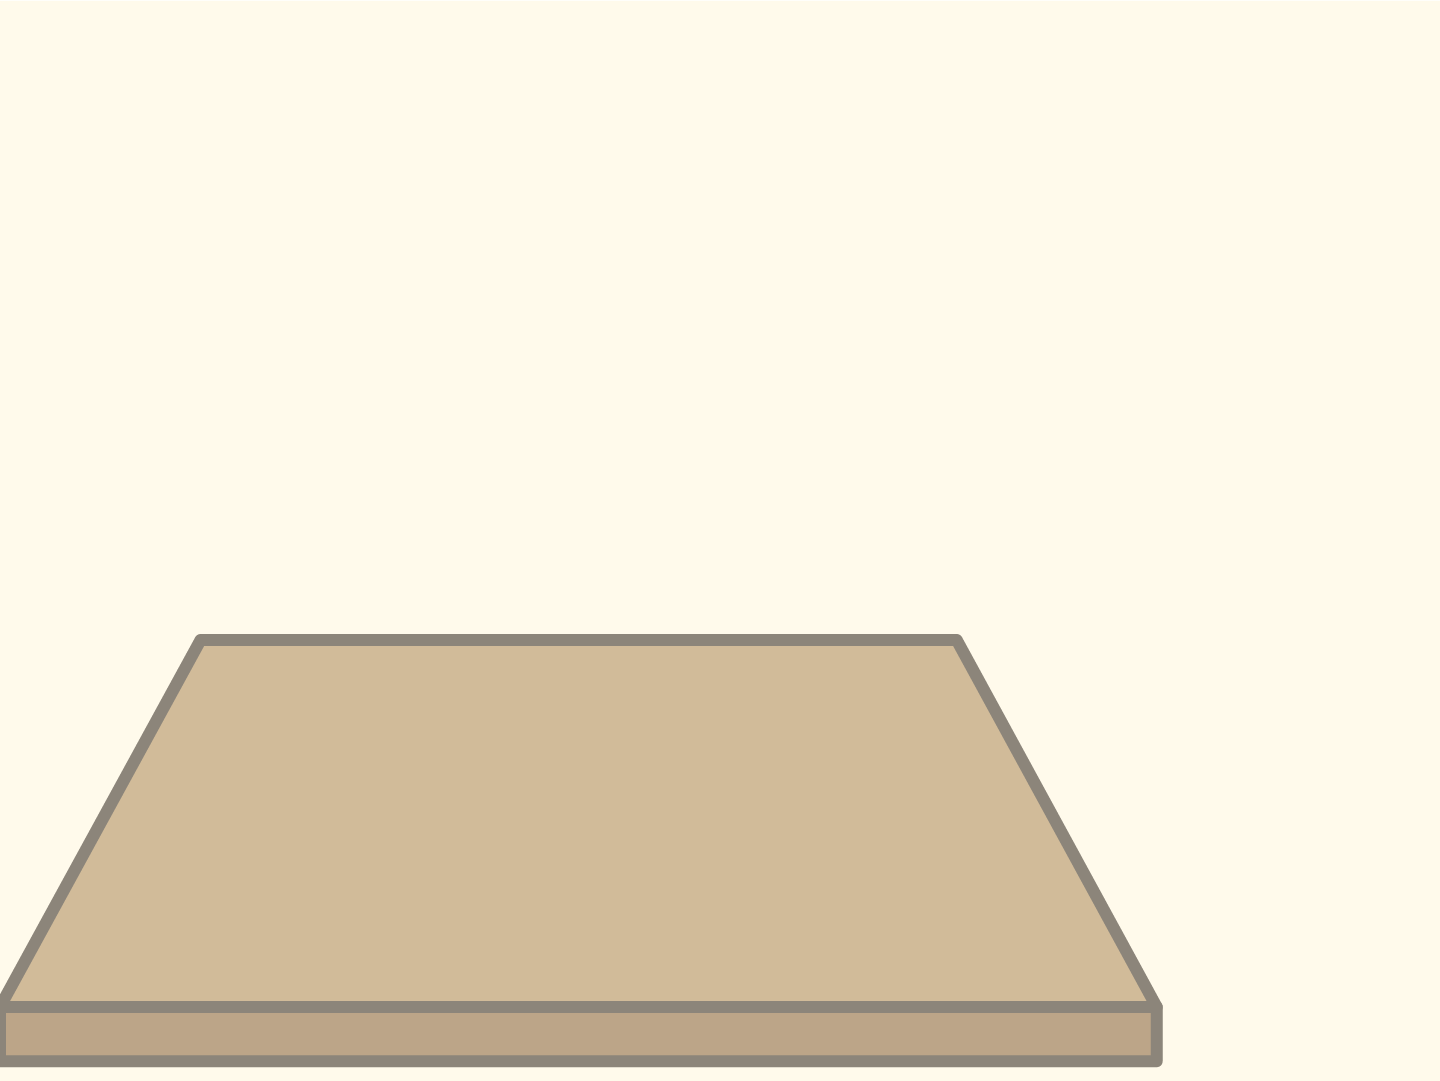
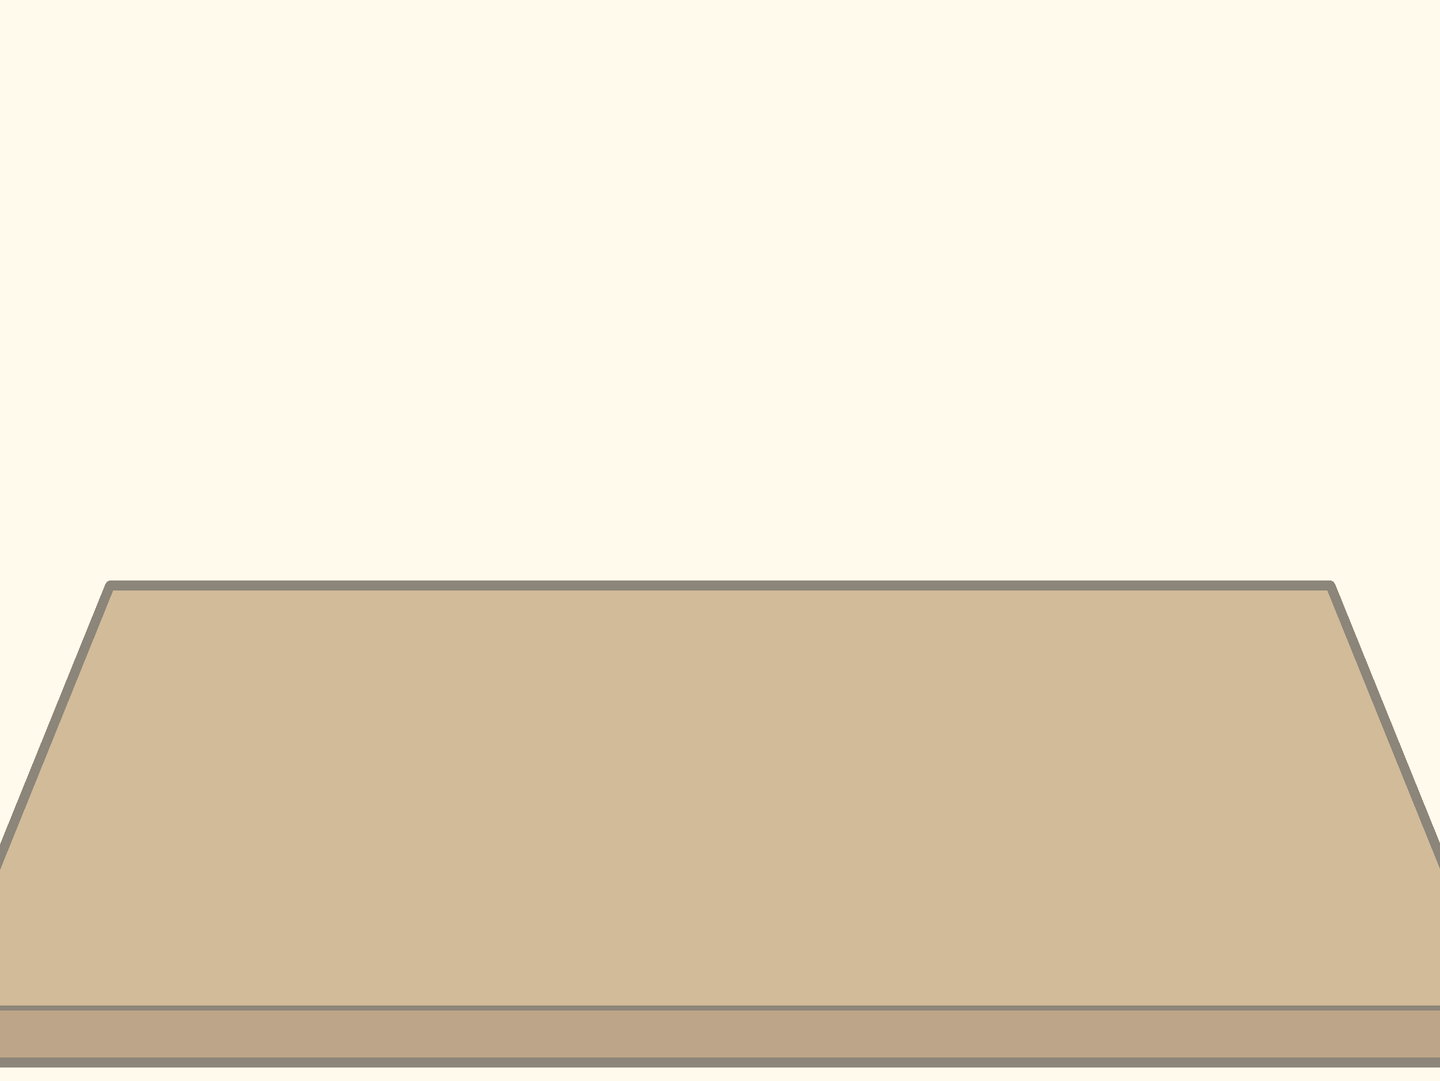
棚の部屋化と部屋を行き来する矢印を追加、飼育部屋の机と配置を調整

Changed region(s): [[0.0, 0.519, 1.0, 1.0]]

diff --git a/src/components/roadmap/room-arrows.tsx b/src/components/roadmap/room-arrows.tsx
@@ -1,0 +1,164 @@
+"use client";
+
+import { useCallback, useEffect, useRef, useState } from "react";
+import { usePathname, useRouter } from "next/navigation";
+import { ChevronLeft, ChevronRight } from "lucide-react";
+import { getRoomNeighbors, ROOMS, roomFromPathname, type RoomKey } from "@/lib/roadmap-rooms";
+
+const USES_KEY = "roomArrowUses";
+// 最初の数回だけ、タップのあとに矢印が大きくなってから移動する(「これで部屋が動く」と分かってもらう)。
+const DEMO_COUNT = 3;
+const DEMO_DELAY_MS = 1800;
+const QUICK_DELAY_MS = 250;
+const SWIPE_MIN_PX = 70;
+
+function readUses(): number {
+  try {
+    return Number(window.localStorage.getItem(USES_KEY)) || 0;
+  } catch {
+    return 0;
+  }
+}
+
+function writeUses(n: number) {
+  try {
+    window.localStorage.setItem(USES_KEY, String(n));
+  } catch {
+    // 覚えられなくても動作に影響しない
+  }
+}
+
+function insideFixedElement(el: Element | null): boolean {
+  let node: Element | null = el;
+  while (node && node !== document.body) {
+    if (getComputedStyle(node).position === "fixed") return true;
+    node = node.parentElement;
+  }
+  return false;
+}
+
+// 部屋(飼育部屋・棚の部屋・リスニングの部屋)を行き来する、画面の左右の矢印。
+// 呼吸するように動いて気づかせる。PCはマウスを乗せると大きくなって行き先が出る。
+// スマホは最初の数回だけ、タップのあとに同じ動きを見せてから移動し、慣れたらすぐ移動する。スワイプでも移動できる。
+export function RoomArrows({ listeningUnlocked = false }: { listeningUnlocked?: boolean }) {
+  const pathname = usePathname();
+  const router = useRouter();
+  const current = roomFromPathname(pathname);
+  const [goingSide, setGoingSide] = useState<"left" | "right" | null>(null);
+  const timerRef = useRef<ReturnType<typeof setTimeout> | null>(null);
+  const neighbors = current ? getRoomNeighbors(current, listeningUnlocked) : { left: null, right: null };
+  const neighborsRef = useRef(neighbors);
+  neighborsRef.current = neighbors;
+  const busyRef = useRef(false);
+
+  useEffect(() => {
+    // 部屋が変わったら(移動し終えたら)、動きの状態を戻す
+    setGoingSide(null);
+    busyRef.current = false;
+  }, [pathname]);
+
+  useEffect(
+    () => () => {
+      if (timerRef.current) clearTimeout(timerRef.current);
+    },
+    []
+  );
+
+  const go = useCallback(
+    (side: "left" | "right", target: RoomKey, instant: boolean) => {
+      if (busyRef.current) return;
+      busyRef.current = true;
+      const href = ROOMS[target].href;
+      router.prefetch(href);
+      const uses = readUses();
+      writeUses(uses + 1);
+      const touch = window.matchMedia("(hover: none)").matches;
+      const reduced = window.matchMedia("(prefers-reduced-motion: reduce)").matches;
+      let delay = 0;
+      if (!instant && touch && !reduced) delay = uses < DEMO_COUNT ? DEMO_DELAY_MS : QUICK_DELAY_MS;
+      if (delay === 0) {
+        router.push(href);
+        return;
+      }
+      setGoingSide(side);
+      timerRef.current = setTimeout(() => router.push(href), delay);
+    },
+    [router]
+  );
+
+  // スワイプ(指を左へ動かすと右の部屋、右へ動かすと左の部屋)。ポップアップや、横にスクロール・ドラッグする場所は除く。
+  useEffect(() => {
+    if (!current) return;
+    let startX = 0;
+    let startY = 0;
+    let tracking = false;
+    const onStart = (e: TouchEvent) => {
+      const target = e.target as Element | null;
+      tracking =
+        e.touches.length === 1 &&
+        !target?.closest('[data-no-room-swipe], input, textarea, select, [role="dialog"]') &&
+        !insideFixedElement(target);
+      if (tracking) {
+        startX = e.touches[0].clientX;
+        startY = e.touches[0].clientY;
+      }
+    };
+    const onEnd = (e: TouchEvent) => {
+      if (!tracking) return;
+      tracking = false;
+      const dx = e.changedTouches[0].clientX - startX;
+      const dy = e.changedTouches[0].clientY - startY;
+      if (Math.abs(dx) < SWIPE_MIN_PX || Math.abs(dx) < Math.abs(dy) * 2) return;
+      const { left, right } = neighborsRef.current;
+      if (dx < 0 && right) go("right", right, true);
+      if (dx > 0 && left) go("left", left, true);
+    };
+    window.addEventListener("touchstart", onStart, { passive: true });
+    window.addEventListener("touchend", onEnd, { passive: true });
+    return () => {
+      window.removeEventListener("touchstart", onStart);
+      window.removeEventListener("touchend", onEnd);
+    };
+  }, [current, go]);
+
+  if (!current) return null;
+
+  const renderArrow = (side: "left" | "right", target: RoomKey | null) => {
+    if (!target) return null;
+    const active = goingSide === side;
+    const Icon = side === "left" ? ChevronLeft : ChevronRight;
+    // PCでは、読む幅(max-w-3xl)のすぐ外側に置く。狭い画面では画面の端。
+    const edge = "max(6px, calc(50vw - 440px))";
+    return (
+      <div
+        className="pointer-events-none fixed top-1/2 z-30 -translate-y-1/2"
+        style={side === "left" ? { left: edge } : { right: edge }}
+      >
+        <button
+          type="button"
+          aria-label={ROOMS[target].toLabel}
+          onClick={() => go(side, target, false)}
+          className={`group pointer-events-auto relative flex items-center transition-transform duration-300 hover:scale-125 ${active ? "scale-125" : ""}`}
+        >
+          <span
+            className={`flex h-10 w-10 items-center justify-center rounded-full border-2 border-amber-300 bg-white/85 text-amber-700 shadow-md sm:h-12 sm:w-12 ${side === "left" ? "animate-room-arrow-left" : "animate-room-arrow-right"}`}
+          >
+            <Icon className="h-6 w-6 sm:h-7 sm:w-7" strokeWidth={2.75} />
+          </span>
+          <span
+            className={`pointer-events-none absolute top-1/2 -translate-y-1/2 whitespace-nowrap rounded-full bg-amber-700 px-3 py-1 text-xs font-black text-white shadow-md transition-opacity duration-200 ${side === "left" ? "left-full ml-2" : "right-full mr-2"} ${active ? "opacity-100" : "opacity-0 group-hover:opacity-100"}`}
+          >
+            {ROOMS[target].toLabel}
+          </span>
+        </button>
+      </div>
+    );
+  };
+
+  return (
+    <>
+      {renderArrow("left", neighbors.left)}
+      {renderArrow("right", neighbors.right)}
+    </>
+  );
+}

diff --git a/src/components/roadmap/roadmap-room.tsx b/src/components/roadmap/roadmap-room.tsx
@@ -10,7 +10,6 @@ import {
   Pipette,
   Microscope,
   StickyNote,
-  Bug,
   Lock,
   Sparkles,
   Flame,
@@ -24,7 +23,6 @@ import type { Plan } from "@/lib/plan";
 import type { StreakStats } from "@/lib/supabase/speaking-roadmap";
 
 const BOARD_COLOR = "#e11d48";
-const SHELF_COLOR = "#92400e";
 const NOTEBOOK_COLOR = "#0d9488";
 
 // 部屋背景の実アート配置先。brand/kuwagata-asset-spec.mdの命名規則どおり
@@ -101,34 +99,32 @@ type ItemPlacement = {
 };
 
 const ITEM_PLACEMENT: Record<string, ItemPlacement> = {
-  stage0: { left: 21.6, top: 83, rotate: 0, widthPct: 13 },
-  stage1: { left: 64, top: 79, rotate: 0, widthPct: 21 },
-  stage2: { left: 20, top: 57, rotate: 0, widthPct: 14 },
-  stage3: { left: 62, top: 22, rotate: 0, widthPct: 13 },
-  stage4: { left: 40.5, top: 77.4, rotate: 0, widthPct: 12 },
-  // 机面に接地して見えるよう、widthPct拡大に合わせてtopも下げて調整
-  stage5: { left: 38.4, top: 56, rotate: 0, widthPct: 13 },
-  board: { left: 25, top: 23, rotate: 0, widthPct: 40, labelOverlapPx: 50 },
-  // 棚は一回り大きくして、画像自体をほぼ床に接地するまで下げる。
-  // ラベルは画像下端ではなく中央に完全に重ねる表示にする。
-  shelf: { left: 92, top: 64, rotate: 0, widthPct: 22, labelPosition: "center" },
-  // 単語ノート(小さな本棚)。机の右奥に置く。位置・幅は、ユーザーの配置イメージ(部屋の完成イメージ画像)から実測。
-  notebook: { left: 58, top: 49, rotate: 0, widthPct: 20 },
+  // 机は左右いっぱいに広げてあり、3列(左22・中央49・右76)×手前/奥の2段に並べる。
+  // 手前の列(Stage0・4・1)は、奥の列(Stage2・5・単語ノート)より左に6%ずらして、段差をつける。
+  stage0: { left: 16, top: 83, rotate: 0, widthPct: 13 },
+  stage1: { left: 70, top: 78, rotate: 0, widthPct: 21 },
+  stage2: { left: 22, top: 56, rotate: 0, widthPct: 14 },
+  stage3: { left: 70, top: 22, rotate: 0, widthPct: 13 },
+  stage4: { left: 43, top: 80, rotate: 0, widthPct: 12 },
+  stage5: { left: 49, top: 55.5, rotate: 0, widthPct: 13 },
+  board: { left: 28, top: 23, rotate: 0, widthPct: 40, labelOverlapPx: 50 },
+  // 単語ノート(小さな本棚)。机の右奥に置く。
+  notebook: { left: 76, top: 50.5, rotate: 0, widthPct: 20 },
 };
 
 // スマホ(sm未満)用の縦長(3:4)背景に合わせた配置。
 // rotate・labelPosition等は共通のITEM_PLACEMENTを使い、座標と幅だけ上書きする。
 const MOBILE_PLACEMENT: Record<string, { left: number; top: number; widthPct: number }> = {
-  // ユーザーが示した完成イメージ(実測)に合わせた値。棚は右端で見切れる配置。
-  board: { left: 27.3, top: 15.1, widthPct: 49.6 },
-  shelf: { left: 88, top: 69.3, widthPct: 30 },
-  stage3: { left: 76.9, top: 19.5, widthPct: 19.6 },
-  stage2: { left: 9.2, top: 45, widthPct: 14 },
-  notebook: { left: 46.7, top: 38.1, widthPct: 26.5 },
-  stage5: { left: 26.9, top: 53.7, widthPct: 20 },
-  stage1: { left: 54.5, top: 78.9, widthPct: 28.7 },
-  stage0: { left: 13.3, top: 84, widthPct: 22 },
-  stage4: { left: 24.5, top: 71.5, widthPct: 17 },
+  // 左右の矢印(画面の端)に重ならないよう、アイテムの中心は左右18〜82%の内側に置く。
+  board: { left: 30, top: 15.5, widthPct: 49.6 },
+  stage3: { left: 77, top: 19.5, widthPct: 19.6 },
+  stage2: { left: 22, top: 50, widthPct: 14 },
+  // 単語ノートの下端を、机の奥の縁(背景の上から50%)に合わせる。
+  notebook: { left: 73, top: 40.3, widthPct: 26.5 },
+  stage5: { left: 47, top: 51, widthPct: 20 },
+  stage1: { left: 66, top: 77, widthPct: 28.7 },
+  stage0: { left: 26, top: 85, widthPct: 22 },
+  stage4: { left: 28, top: 69, widthPct: 17 },
 };
 
 const ROOM_BG_MOBILE_URL = "/roadmap/room/room_bg_mobile.png";
@@ -419,18 +415,6 @@ export function RoadmapRoom({
           current={false}
           placement={ITEM_PLACEMENT.board}
           mobilePlacement={MOBILE_PLACEMENT.board}
-        />
-        <StageCase
-          color={SHELF_COLOR}
-          icon={Bug}
-          imageSrc={roomItemImageSrc("shelf")}
-          label="飼育棚"
-          caption="クワたん一覧"
-          href="/roadmap/shelf"
-          locked={false}
-          current={false}
-          placement={ITEM_PLACEMENT.shelf}
-          mobilePlacement={MOBILE_PLACEMENT.shelf}
         />
         <StageCase
           color={NOTEBOOK_COLOR}

diff --git a/src/lib/roadmap-rooms.ts b/src/lib/roadmap-rooms.ts
@@ -1,0 +1,35 @@
+// 部屋の並びと、隣の部屋の求め方。左右の矢印(RoomArrows)が使う。
+// 部屋は環状に並ぶ(飼育部屋 → 棚の部屋 → リスニングの部屋 → 飼育部屋)。右へ進むと次、左へ進むと前。
+// リスニングの部屋は、解放されるまで並びに入れない(その間は2部屋で、端は行き止まりにする)。
+
+export type RoomKey = "room" | "shelf" | "listening";
+
+export const ROOMS: Record<RoomKey, { label: string; toLabel: string; href: string }> = {
+  room: { label: "飼育部屋", toLabel: "飼育部屋へ", href: "/roadmap" },
+  shelf: { label: "棚の部屋", toLabel: "棚の部屋へ", href: "/roadmap/shelf" },
+  listening: { label: "リスニングの部屋", toLabel: "リスニングの部屋へ", href: "/roadmap/listening" },
+};
+
+export function roomFromPathname(pathname: string | null): RoomKey | null {
+  if (!pathname) return null;
+  const path = pathname.replace(/\/+$/, "") || "/";
+  if (path === "/roadmap") return "room";
+  if (path === "/roadmap/shelf") return "shelf";
+  if (path === "/roadmap/listening") return "listening";
+  return null;
+}
+
+export function getRoomNeighbors(
+  current: RoomKey,
+  listeningUnlocked: boolean
+): { left: RoomKey | null; right: RoomKey | null } {
+  if (listeningUnlocked) {
+    const ring: RoomKey[] = ["room", "shelf", "listening"];
+    const i = ring.indexOf(current);
+    return { left: ring[(i + ring.length - 1) % ring.length], right: ring[(i + 1) % ring.length] };
+  }
+  // 2部屋(飼育部屋 ⇄ 棚の部屋)。端は行き止まり。
+  if (current === "room") return { left: null, right: "shelf" };
+  if (current === "shelf") return { left: "room", right: null };
+  return { left: null, right: null };
+}

diff --git a/src/app/(roadmap)/roadmap/shelf/page.tsx b/src/app/(roadmap)/roadmap/shelf/page.tsx
@@ -65,14 +65,16 @@ export default async function KuwagataShelfPage() {
 
   return (
     <div>
-      <div className="mb-4 flex items-center justify-between">
-        <Link
-          href={user.isAnonymous ? "/roadmap/stage1" : "/roadmap"}
-          className="inline-flex items-center gap-1 text-sm text-zinc-500 transition-colors hover:text-zinc-900"
-        >
-          <ChevronLeft className="h-4 w-4" />
-          {user.isAnonymous ? "練習に戻る" : "部屋に戻る"}
-        </Link>
+      <div className={`mb-4 flex items-center ${user.isAnonymous ? "justify-between" : "justify-end"}`}>
+        {user.isAnonymous && (
+          <Link
+            href="/roadmap/stage1"
+            className="inline-flex items-center gap-1 text-sm text-zinc-500 transition-colors hover:text-zinc-900"
+          >
+            <ChevronLeft className="h-4 w-4" />
+            練習に戻る
+          </Link>
+        )}
         {!user.isAnonymous && (
           <Link
             href="/roadmap/encyclopedia"

diff --git a/src/app/(roadmap)/layout.tsx b/src/app/(roadmap)/layout.tsx
@@ -6,6 +6,7 @@ import {
   SoundToggleButton,
 } from "@/components/roadmap/roadmap-sound";
 import { GuestSignupTracker } from "@/components/analytics/guest-signup-tracker";
+import { RoomArrows } from "@/components/roadmap/room-arrows";
 import { RefreshOnReturn } from "@/components/roadmap/refresh-on-return";
 import { RoadmapAdBreakProvider } from "@/components/roadmap/roadmap-ad-break";
 import { TrialReminderBanner } from "@/components/roadmap/trial-reminder-banner";
@@ -77,6 +78,8 @@ export default async function RoadmapLayout({
             <TrialReminderBanner daysLeft={trial.daysLeft} monthlyAmount={trial.monthlyAmount} />
           )}
           <RoadmapAdBreakProvider enabled={showAds}>{children}</RoadmapAdBreakProvider>
+          {/* 部屋を行き来する矢印(ゲストは棚とStage1だけなので出さない) */}
+          {user && !user.isAnonymous && <RoomArrows />}
         </main>
       </div>
     </RoadmapSoundProvider>

diff --git a/src/app/globals.css b/src/app/globals.css
@@ -2234,6 +2234,42 @@ body {
   animation: title-breathe 2.6s ease-in-out 2.4s infinite;
 }
 
+/* 部屋の矢印。向かう方向へ少し寄りながら、ゆっくり呼吸する。 */
+@keyframes room-arrow-left {
+  0%,
+  100% {
+    transform: translateX(0) scale(1);
+  }
+  50% {
+    transform: translateX(-4px) scale(1.1);
+  }
+}
+
+@keyframes room-arrow-right {
+  0%,
+  100% {
+    transform: translateX(0) scale(1);
+  }
+  50% {
+    transform: translateX(4px) scale(1.1);
+  }
+}
+
+.animate-room-arrow-left {
+  animation: room-arrow-left 2.2s ease-in-out infinite;
+}
+
+.animate-room-arrow-right {
+  animation: room-arrow-right 2.2s ease-in-out infinite;
+}
+
+@media (prefers-reduced-motion: reduce) {
+  .animate-room-arrow-left,
+  .animate-room-arrow-right {
+    animation: none;
+  }
+}
+
 @media (prefers-reduced-motion: reduce) {
   .animate-title-blink,
   .animate-title-bg,

diff --git a/src/components/roadmap/kuwagata-shelf.tsx b/src/components/roadmap/kuwagata-shelf.tsx
@@ -4153,6 +4153,7 @@ function EnlargedTankVisual({
   return (
     <div
       ref={frameRef}
+      data-no-room-swipe
       className="relative mb-3.5 w-full select-none overflow-hidden rounded-lg border border-zinc-200"
       style={{ touchAction: decoEdit ? "none" : "pan-y" }}
       onDragStart={(e) => e.preventDefault()}
@@ -4833,6 +4834,7 @@ export function KuwagataShelf({
             <div className="relative">
               <div
                 ref={knownShelfRef}
+                data-no-room-swipe
                 onScroll={handleKnownShelfScroll}
                 className="flex snap-x snap-mandatory overflow-x-auto [scrollbar-width:none] [&::-webkit-scrollbar]:hidden"
               >
